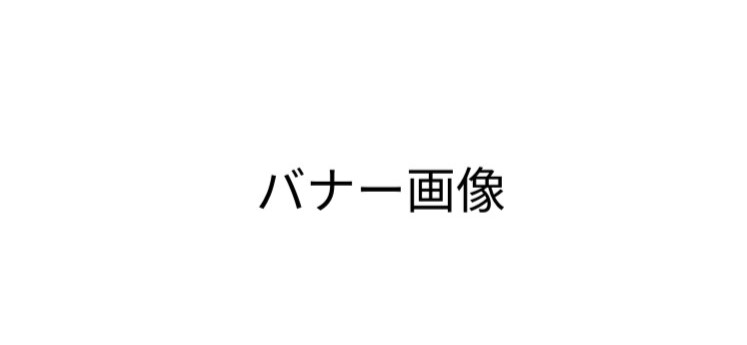
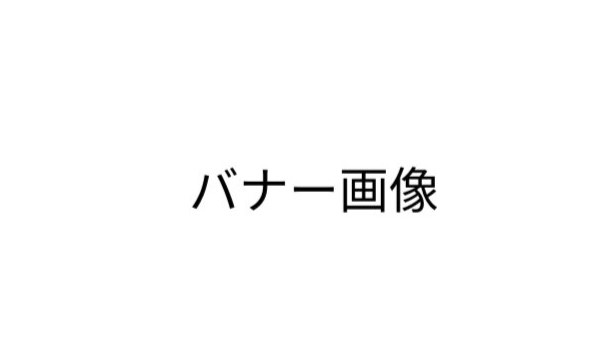
Your commit message

Changed region(s): [[0.5269, 0.4638, 0.7129, 0.6377], [0.31, 0.4638, 0.4959, 0.6087]]

diff --git a/resources/css/app.css b/resources/css/app.css
@@ -73,6 +73,7 @@
 }
 
 .swiper-slide {
+    
     width: 100%; 
     height: 400px; 
 }
@@ -107,9 +108,9 @@
 }
 
 .swiper-container {
-
     position: relative;
     width: 100%;
     max-width: 100%; /* 1枚の画像の幅に調整 */
     overflow: hidden;
+
 }

diff --git a/resources/views/top.blade.php b/resources/views/top.blade.php
@@ -17,11 +17,12 @@
             <div class="swiper-wrapper">
                 @foreach($banners as $banner)
                     <div class="swiper-slide">
-                        <img src="{{ asset('storage/banners/' . $banner->image) }}" class="d-block w-100" alt="Banner Image">
+                        <img src="{{ asset($banner->image) }}" class="top-image" alt="Banner Image">
                     </div>
                 @endforeach
             </div>
 
+            
             <button class="next-btn">次へ＞</button>
 
             <!-- ドットアイコンのエリア -->
@@ -44,7 +45,7 @@
 @push('scripts')
 <script>
     document.addEventListener("DOMContentLoaded", function() {
-        const banners = document.querySelectorAll(".swiper-slide img");
+        const banners = document.querySelectorAll(".swiper-slide img");  // 画像の選択
         const dotsContainer = document.querySelector(".dots");
         const prevBtn = document.querySelector(".prev-btn");
         const nextBtn = document.querySelector(".next-btn");

diff --git a/app/Http/Controllers/User/DeliveryController.php b/app/Http/Controllers/User/DeliveryController.php
@@ -36,9 +36,14 @@ class DeliveryController extends Controller
     $deliveryTime = $curriculum->deliveryTime;
     $now = now();  // 現在の時間
 
+    $isWithinDeliveryPeriod = true;
+    
     // 現在の時間が配信期間外かどうかを確認
-    $isOutsideDeliveryPeriod = $deliveryTime && ($now < $deliveryTime->delivery_from || $now > $deliveryTime->delivery_to);
-
+    if ($deliveryTime) {
+        $isOutsideDeliveryPeriod = ($now < $deliveryTime->delivery_from || $now > $deliveryTime->delivery_to);
+    } else {
+        $isOutsideDeliveryPeriod = true;  // 配信期間がない場合は期間外と見なす
+    }
         return view('delivery', compact('curriculum', 'curriculumProgress', 'grades','grade', 'isCompleted', 'isOutsideDeliveryPeriod'));
     }
     

diff --git a/database/migrations/2024_11_02_213905_add_name_kana_to_users_table.php b/database/migrations/2024_11_02_213905_add_name_kana_to_users_table.php
@@ -1,0 +1,32 @@
+<?php
+
+use Illuminate\Database\Migrations\Migration;
+use Illuminate\Database\Schema\Blueprint;
+use Illuminate\Support\Facades\Schema;
+
+return new class extends Migration
+{
+    /**
+     * Run the migrations.
+     *
+     * @return void
+     */
+    public function up()
+    {
+        Schema::table('users', function (Blueprint $table) {
+            $table->string('name_kana')->after('name')->nullable(); // name フィールドの後に追加
+        });
+    }
+
+    /**
+     * Reverse the migrations.
+     *
+     * @return void
+     */
+    public function down()
+    {
+        Schema::table('users', function (Blueprint $table) {
+            $table->dropColumn('name_kana');
+        });
+    }
+};

diff --git a/app/Models/Banner.php b/app/Models/Banner.php
@@ -4,10 +4,13 @@ namespace App\Models;
 
 use Illuminate\Database\Eloquent\Factories\HasFactory;
 use Illuminate\Database\Eloquent\Model;
+use Illuminate\Support\Facades\DB;
 
 class Banner extends Model
 {
     use HasFactory;
-    protected $table = 'banners';
-    protected $fillable = ['image', 'title', ];
+    public function getList() {
+        $Banners = DB::table('Banner')->get();
+        return $Banners;
+    }
 }

diff --git a/app/Http/Controllers/BannerController.php b/app/Http/Controllers/BannerController.php
@@ -7,9 +7,10 @@ use App\Models\Banner;
 
 class BannerController extends Controller
 {
-    public function store(Request $request)
-    {
-        $banners = Banner::all(); 
-        return view('create');
+    public function showList() {
+        $model = new Banner();
+        $banners = $model->getList();
+
+        return view('image', ['banners' => $banners]);
     }
 }

diff --git a/app/Models/Curriculum.php b/app/Models/Curriculum.php
@@ -26,6 +26,11 @@ class Curriculum extends Model
     
     public function progress()
     {
-        return $this->hasMany(CurriculumProgress::class);
+        return $this->hasOne(DeliveryTime::class, );
+    }
+
+    public function deliveryTime()
+    {
+        return $this->hasOne(DeliveryTime::class, 'curriculums_id', 'id');
     }
 }

diff --git a/app/Models/DeliveryTime.php b/app/Models/DeliveryTime.php
@@ -9,5 +9,6 @@ class DeliveryTime extends Model
 {
     use HasFactory;
     protected $table = 'delivery_times';
+    protected $fillable = ['curriculums_id', 'delivery_from', 'delivery_to'];
     
 }
